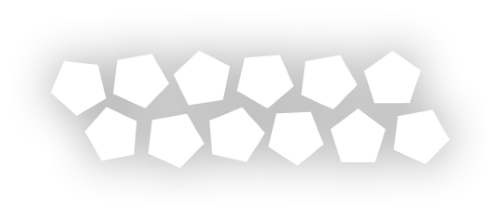
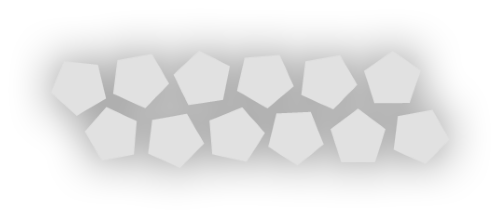
Updated street color & renamed gameLogic objects

Changed region(s): [[0.09, 0.2182, 0.84, 0.7364], [0.3, 0.4909, 0.9, 0.7636]]

diff --git a/src/local/Framework.java b/src/local/Framework.java
@@ -51,8 +51,8 @@ public class Framework {
 
 	// local
 	Networkmanager data_connection;
-	LocalGameLogic local_logic = new LocalGameLogic();
-	LocalUI ui = new LocalUI((LocalGameLogic) local_logic, this);
+	LocalGameLogic gameLogic = new LocalGameLogic();
+	LocalUI ui = new LocalUI((LocalGameLogic) gameLogic, this);
 
 	// server
 	Core core;
@@ -73,7 +73,7 @@ public class Framework {
 		game_view.setCenter(Map.index_to_position(new Vector2i(Map.map_size_x / 2, Map.map_size_y / 2)));
 		update_view();
 
-		local_logic.init(std_font);
+		gameLogic.init(std_font);
 		ui.init(std_font);
 
 		std_timer.restart();
@@ -98,7 +98,7 @@ public class Framework {
 						update_view();
 					} else if (evt.type == Event.Type.MOUSE_BUTTON_PRESSED) {
 						if (evt.asMouseButtonEvent().button == Mouse.Button.LEFT) {
-							local_logic
+							gameLogic
 									.mouse_click_input(reverse_transform_position(evt.asMouseButtonEvent().position.x,
 											evt.asMouseButtonEvent().position.y, game_view));
 						} else if (evt.asMouseButtonEvent().button == Mouse.Button.RIGHT) { // reset mouse position
@@ -130,7 +130,7 @@ public class Framework {
 			window.clear(new Color(12, 145, 255));
 
 			window.setView(game_view);
-			local_logic.render_map(window);
+			gameLogic.render_map(window);
 			window.setView(gui_view);
 			ui.render(window);
 
@@ -169,18 +169,18 @@ public class Framework {
 		core = new LocalCore();
 		ui.setCore(core);
 		((LocalCore)core).addUI(ui);
-		((LocalCore)core).addLogic(local_logic);
+		((LocalCore)core).addLogic(gameLogic);
 		data_connection = new Server((LocalCore) core);
 		((LocalCore)core).setServer((Server) data_connection);
-		local_logic.setCore(core);
-		local_logic.setUI(ui);
+		gameLogic.setCore(core);
+		gameLogic.setUI(ui);
 	}
 
 	// creates a new game with this machine as client
 	public boolean init_guest_game(String ip, String name) {
 		String serverIp = ip;
 		try {
-			data_connection = new Client(ui, local_logic, serverIp);
+			data_connection = new Client(ui, gameLogic, serverIp);
 		} catch (IOException e) {
 			System.err.println("Wrong IP or server is not online");
 			return false;
@@ -188,8 +188,8 @@ public class Framework {
 		core = new RemoteCore();
 		ui.setCore(core);
 		((RemoteCore)core).setClientConnection((Client) data_connection);
-		local_logic.setCore(core);
-		local_logic.setUI(ui);
+		gameLogic.setCore(core);
+		gameLogic.setUI(ui);
 		
 		Color user_color = new Color((int) (Math.random() * 170. + 50), (int) (Math.random() * 170. + 50),
 				(int) (Math.random() * 170.+50));// TODO implement color picker

diff --git a/src/network/Client.java b/src/network/Client.java
@@ -22,11 +22,11 @@ public class Client extends Networkmanager{
 	private ClientInputListener clientInputListener;
 	
 	private LocalUI ui;
-	private LocalGameLogic local_logic;
+	private LocalGameLogic gameLogic;
 	
-	public Client(LocalUI ui, LocalGameLogic local_logic, String serverIP) throws UnknownHostException, IOException {
+	public Client(LocalUI ui, LocalGameLogic gameLogic, String serverIP) throws UnknownHostException, IOException {
 		this.ui = ui;
-		this.local_logic = local_logic;
+		this.gameLogic = gameLogic;
 		this.serverIP = serverIP;
 		//Init Connection to server
 		this.server = new Socket(this.serverIP, PORT);
@@ -67,23 +67,23 @@ public class Client extends Networkmanager{
 			break;
 		case START_GAME:
 			ui.build_game_menu();
-			local_logic.set_mode(GameMode.game);
+			gameLogic.set_mode(GameMode.game);
 			System.out.println("Start game at Client");
 			break;
 		case PLAYER_DATA:
 			this.ui.update_player_data(((Packet.PlayerData) packet.data).getPlayer());
 			break;
 		case NEW_MAP:
-			local_logic.update_new_map(((Packet.New_Map) packet.data).getFields());
+			gameLogic.update_new_map(((Packet.New_Map) packet.data).getFields());
 			break;
 		case UPDATE_BUILDINGS:
-			this.local_logic.update_buildings(((Packet.UpdateBuildings) packet.data).getBuildings());
+			this.gameLogic.update_buildings(((Packet.UpdateBuildings) packet.data).getBuildings());
 			break;
 		case NEW_BUILDING:
-			local_logic.add_building(((Packet.NewBuilding) packet.data).getID(), ((Packet.NewBuilding) packet.data).getBuilding());
+			gameLogic.add_building(((Packet.NewBuilding) packet.data).getID(), ((Packet.NewBuilding) packet.data).getBuilding());
 			break;
 		case SET_MODE:
-			local_logic.set_mode(((Packet.NEW_MODE) packet.data).getgameMode());
+			gameLogic.set_mode(((Packet.NEW_MODE) packet.data).getgameMode());
 			break;
 		case INIT_SCOREBOARD:
 			ui.update_scoreboard(((Packet.Scoreboard) packet.data).getPlayer());

diff --git a/src/network/RemoteCore.java b/src/network/RemoteCore.java
@@ -40,7 +40,7 @@ public class RemoteCore extends Core {
 		this.client.sendMessage(new Packet(Command.NAME, new Packet.Name(name, color)));
 	}
 
-	public void addLogic(GameLogic local_logic) {
+	public void addLogic(GameLogic gameLogic) {
 		// TODO Auto-generated method stub
 
 	}
